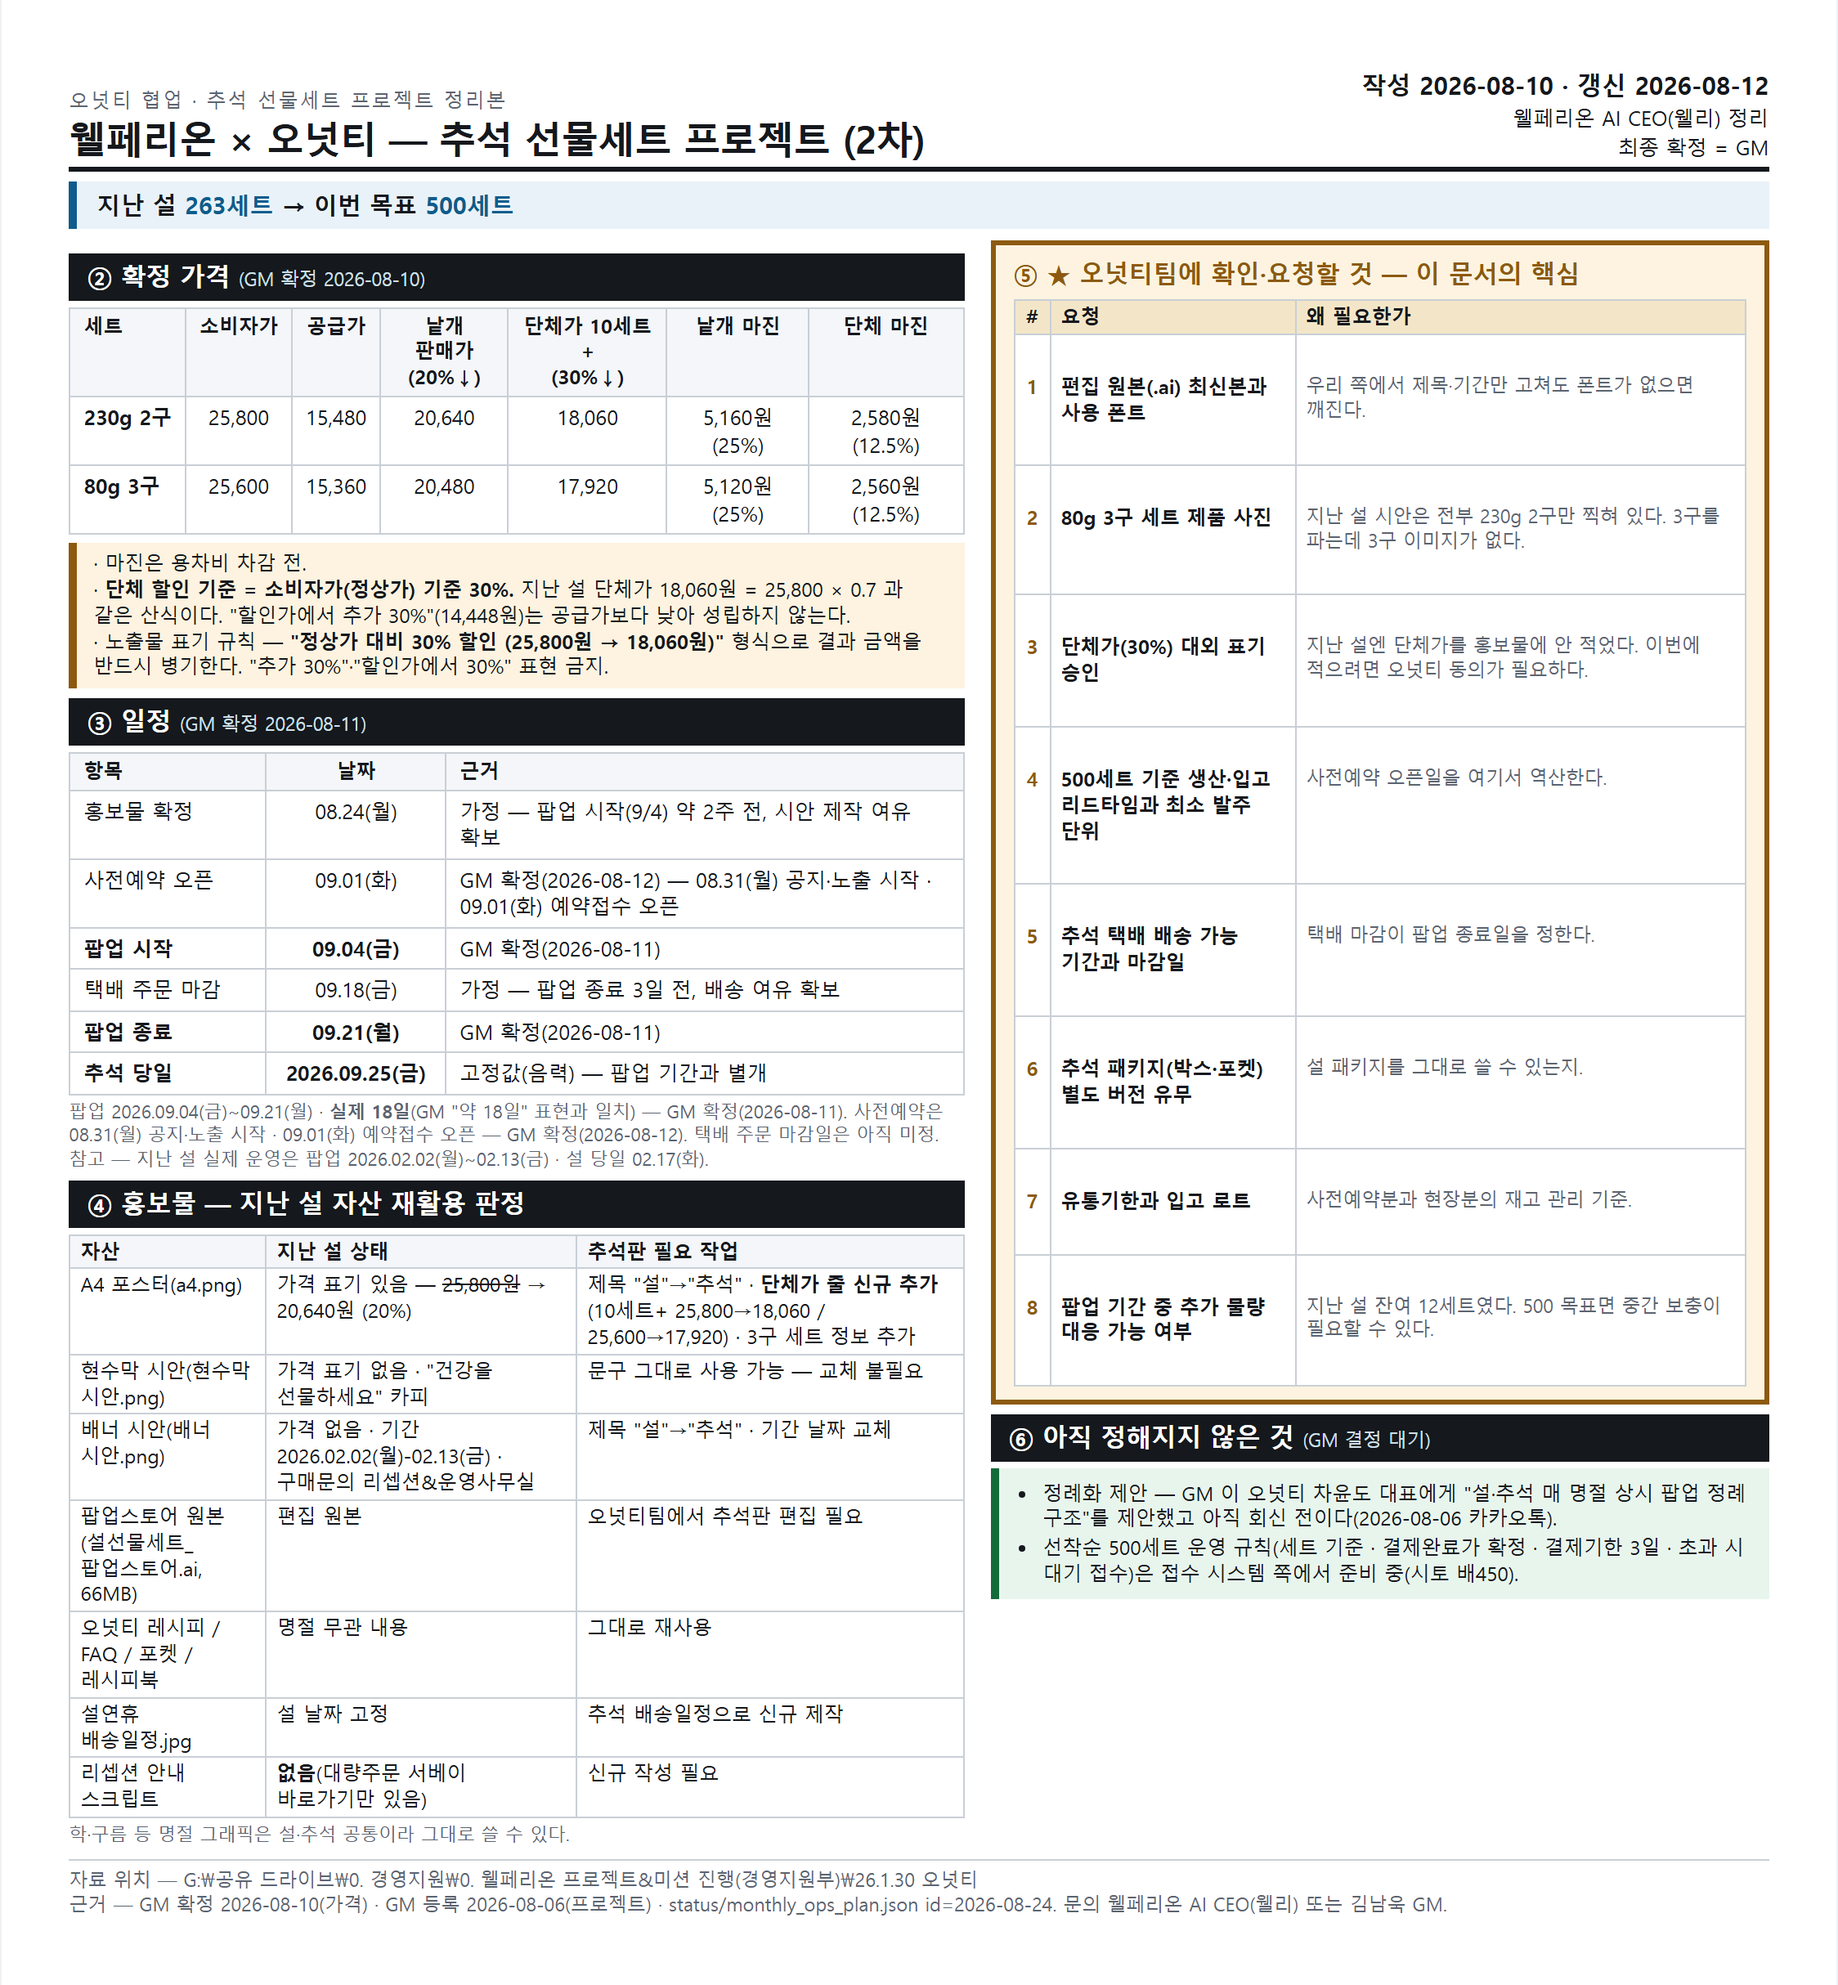
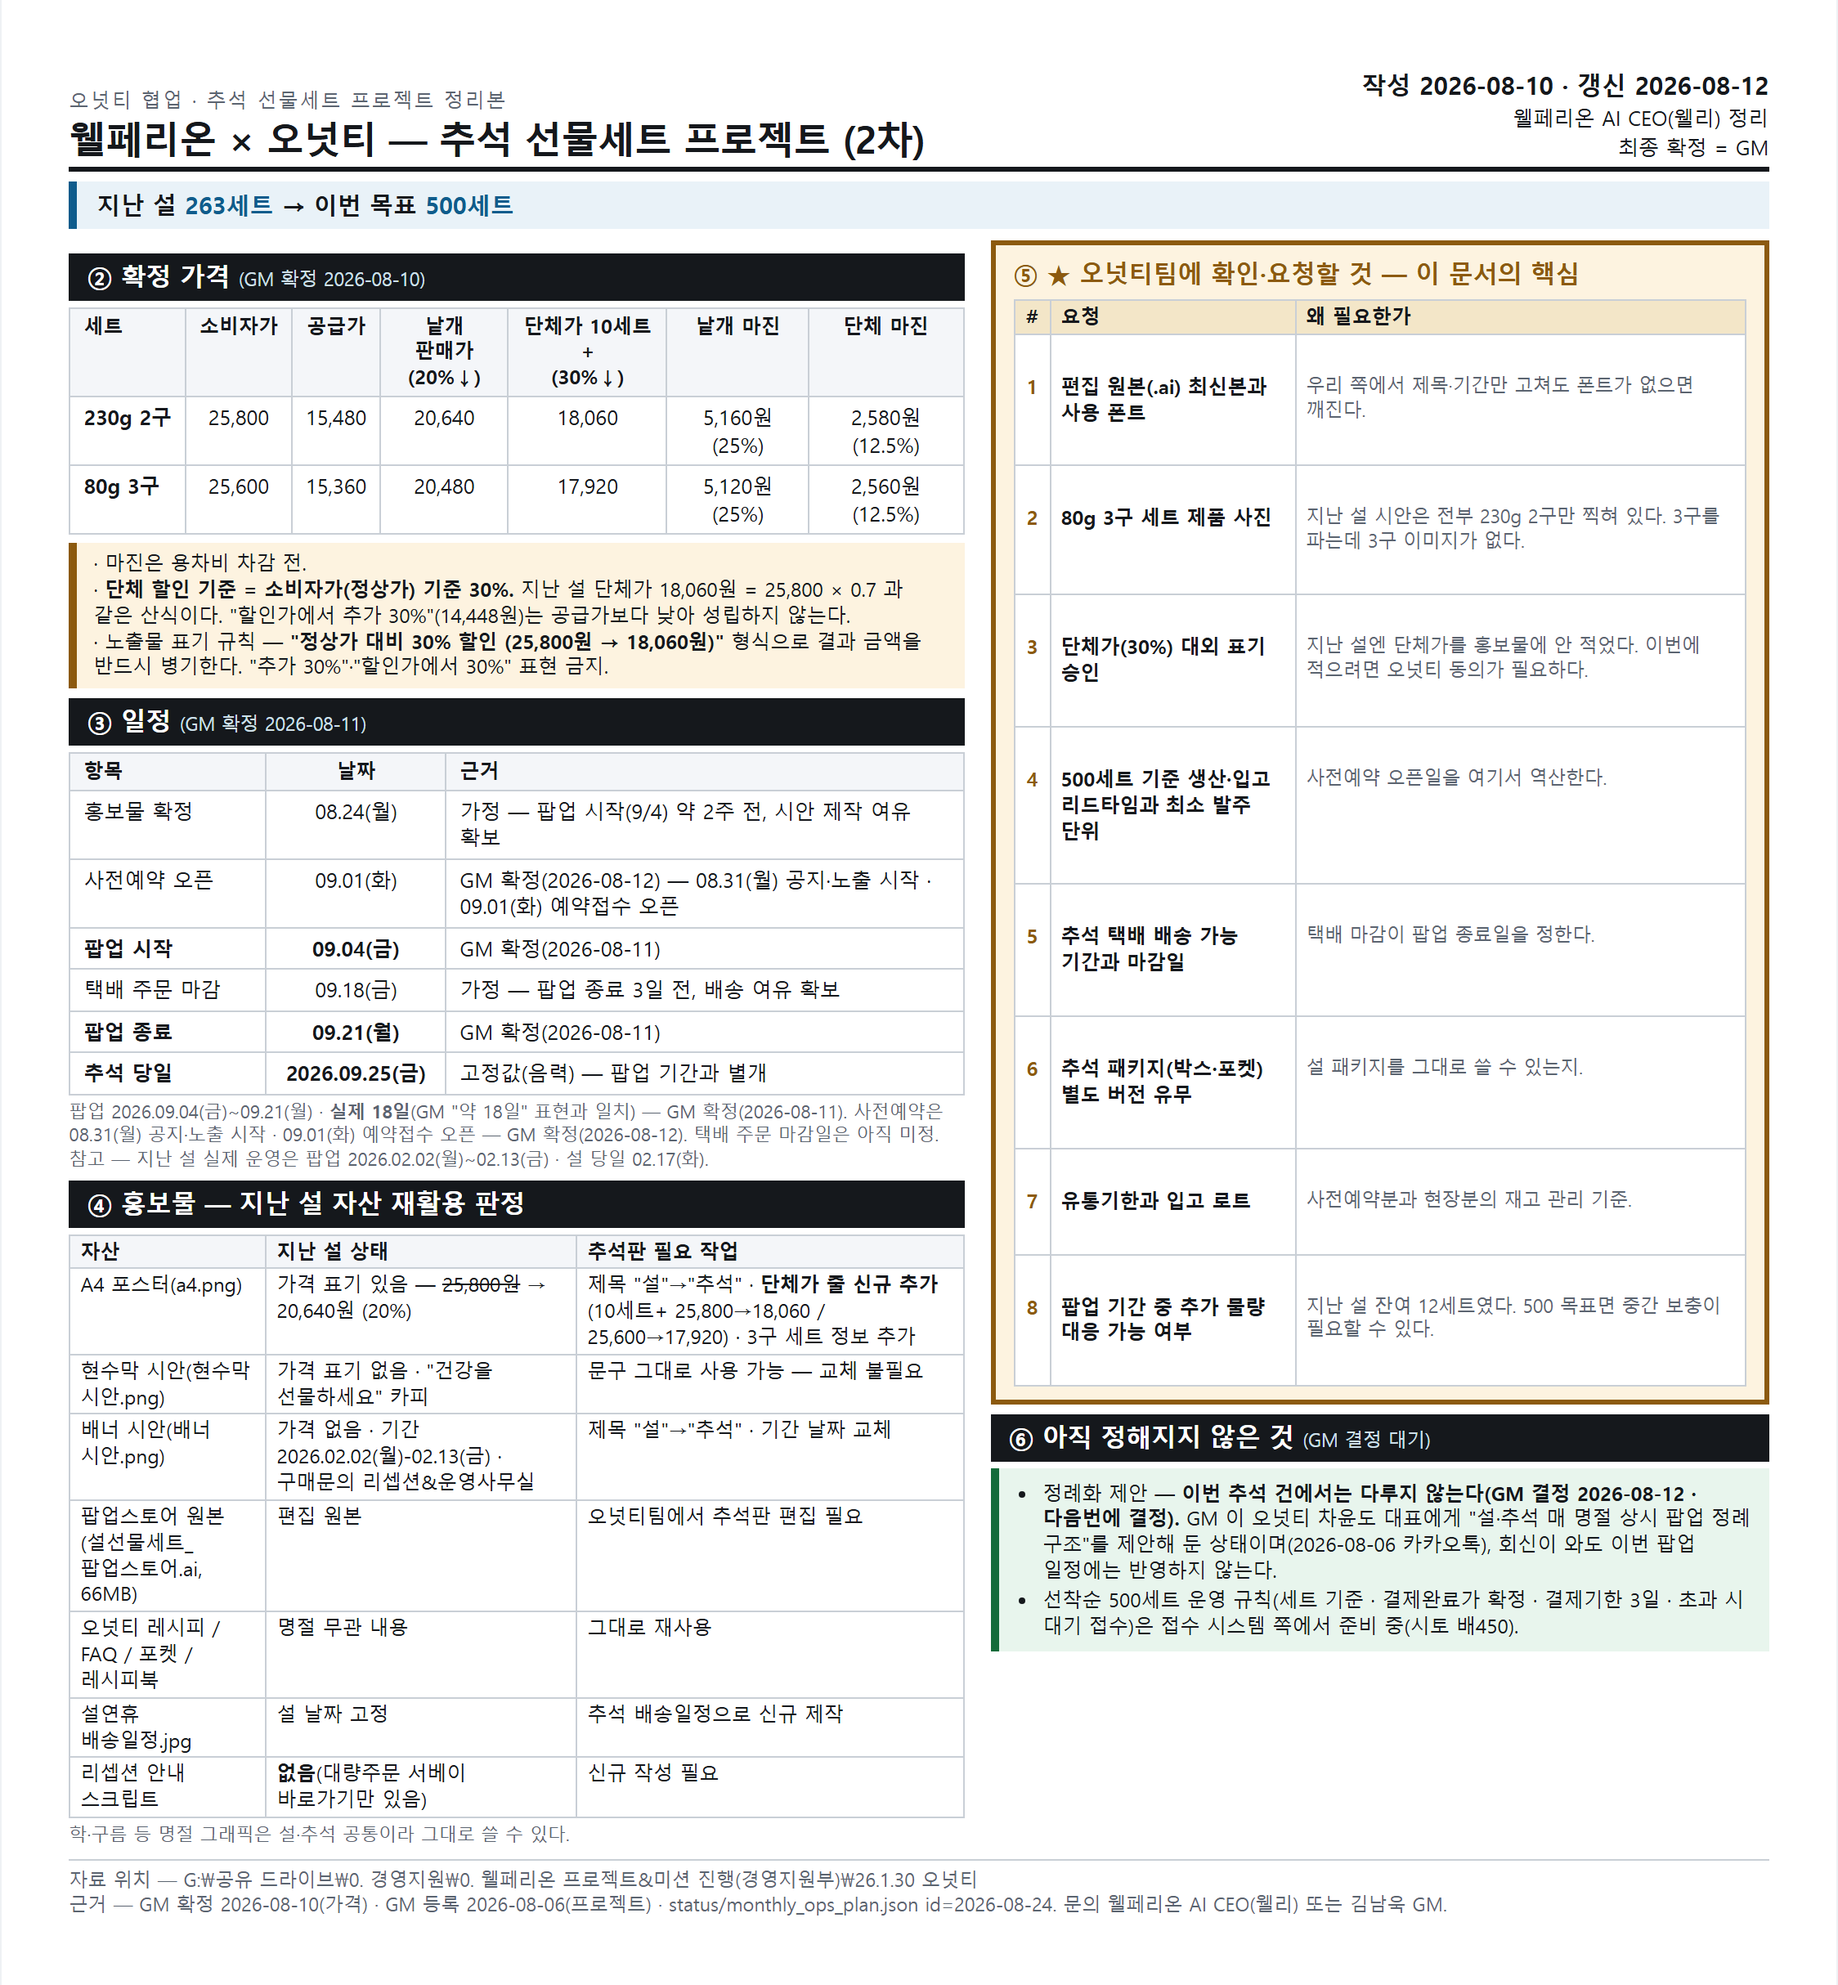
chore(오넛티): 명절 팝업 정례화는 이번 건에서 제외 — 다음번에 결정 (GM 2026-08-12)
A3 정리본 6번 '아직 정해지지 않은 것'과 월간운영계획 마일스톤 8번에 같이 표기.
이번 추석 일정에는 반영하지 않는다는 뜻을 문서에 남겨 다음 사람이 다시 묻지 않게 했다.

Changed region(s): [[0.5294, 0.7414, 0.9653, 0.834]]

diff --git a/3. 웰페리온 가이드/회사문서/웰페리온_오넛티_추석선물세트_A3.html b/3. 웰페리온 가이드/회사문서/웰페리온_오넛티_추석선물세트_A3.html
@@ -211,7 +211,7 @@
         <h2 class="big">⑥ 아직 정해지지 않은 것 <span style="font-weight:400; font-size:11.5px; color:#cfe0ea;">(GM 결정 대기)</span></h2>
         <div class="good">
           <ul>
-            <li>정례화 제안 — GM 이 오넛티 차윤도 대표에게 "설·추석 매 명절 상시 팝업 정례 구조"를 제안했고 아직 회신 전이다(2026-08-06 카카오톡).</li>
+            <li>정례화 제안 — <b>이번 추석 건에서는 다루지 않는다(GM 결정 2026-08-12 · 다음번에 결정).</b> GM 이 오넛티 차윤도 대표에게 "설·추석 매 명절 상시 팝업 정례 구조"를 제안해 둔 상태이며(2026-08-06 카카오톡), 회신이 와도 이번 팝업 일정에는 반영하지 않는다.</li>
             <li>선착순 500세트 운영 규칙(세트 기준 · 결제완료가 확정 · 결제기한 3일 · 초과 시 대기 접수)은 접수 시스템 쪽에서 준비 중(시토 배450).</li>
           </ul>
         </div>
